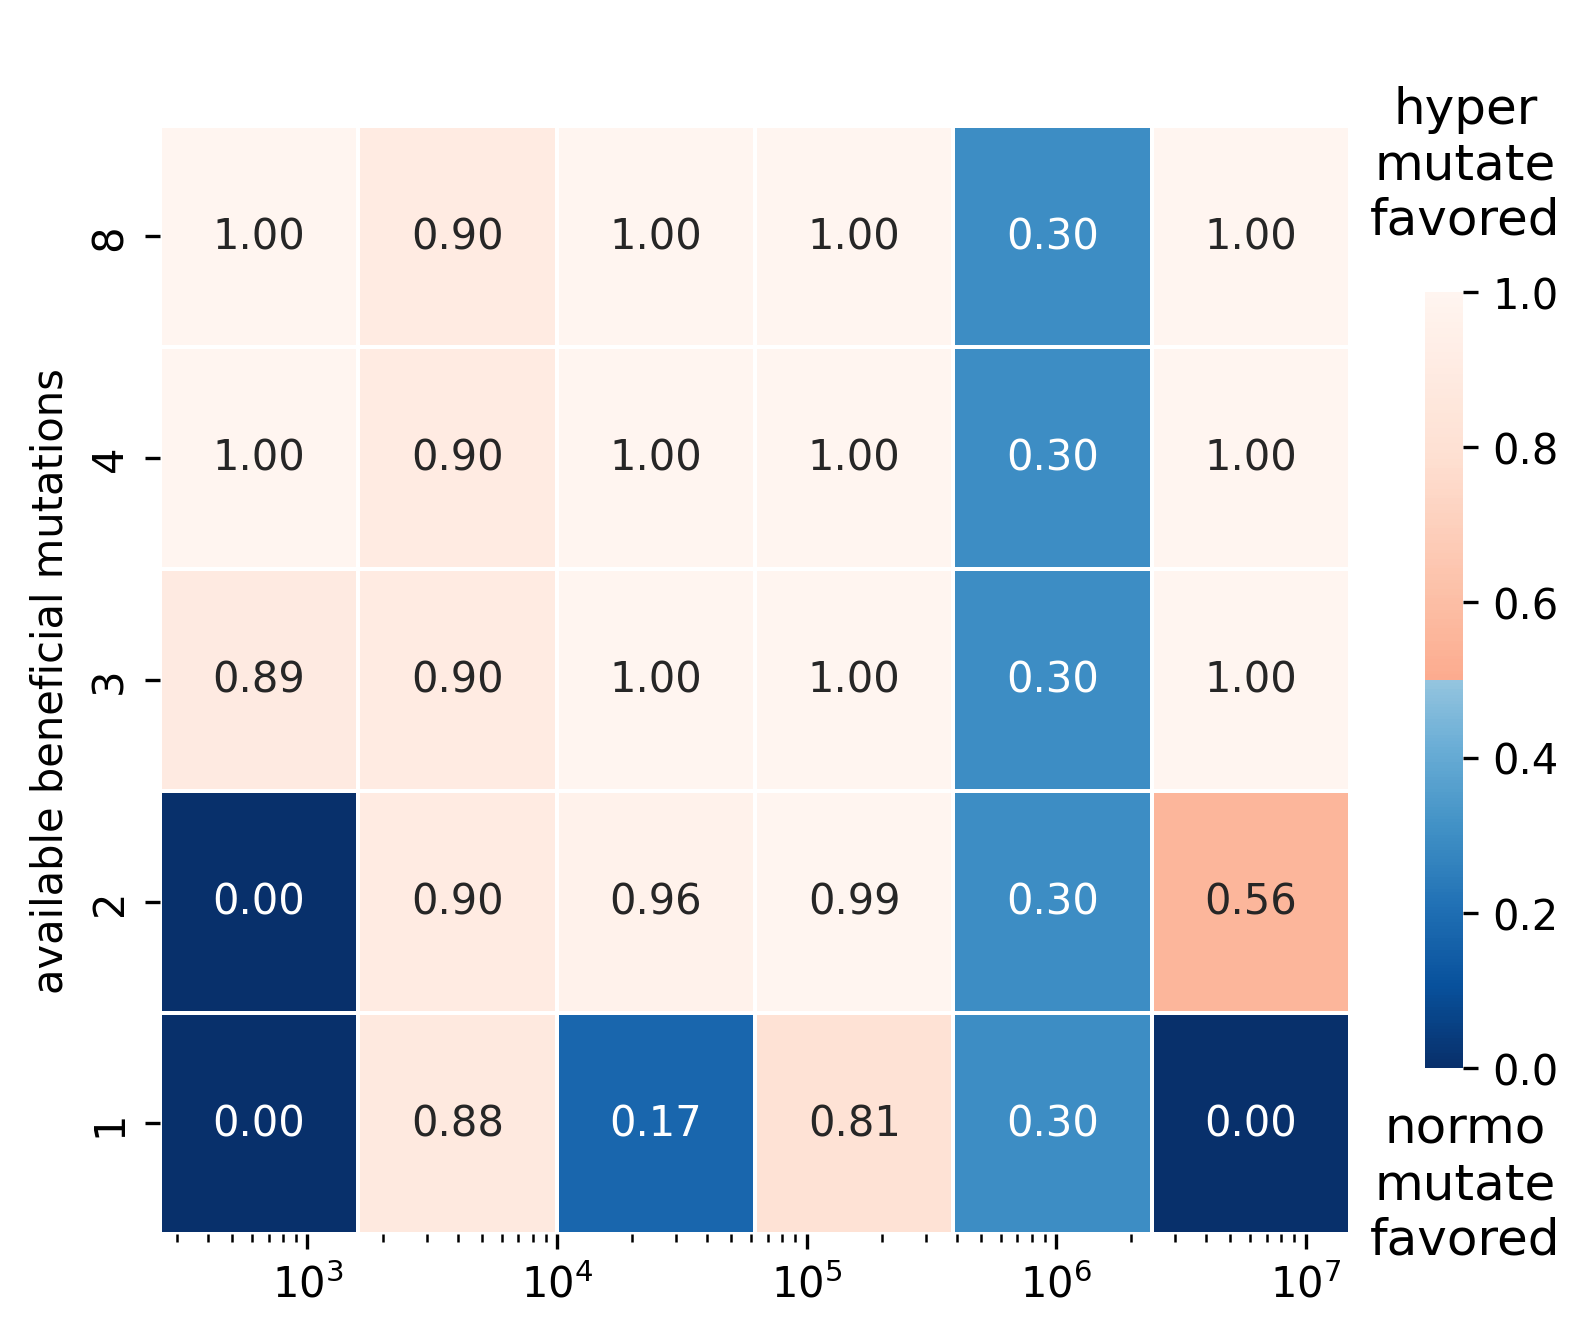
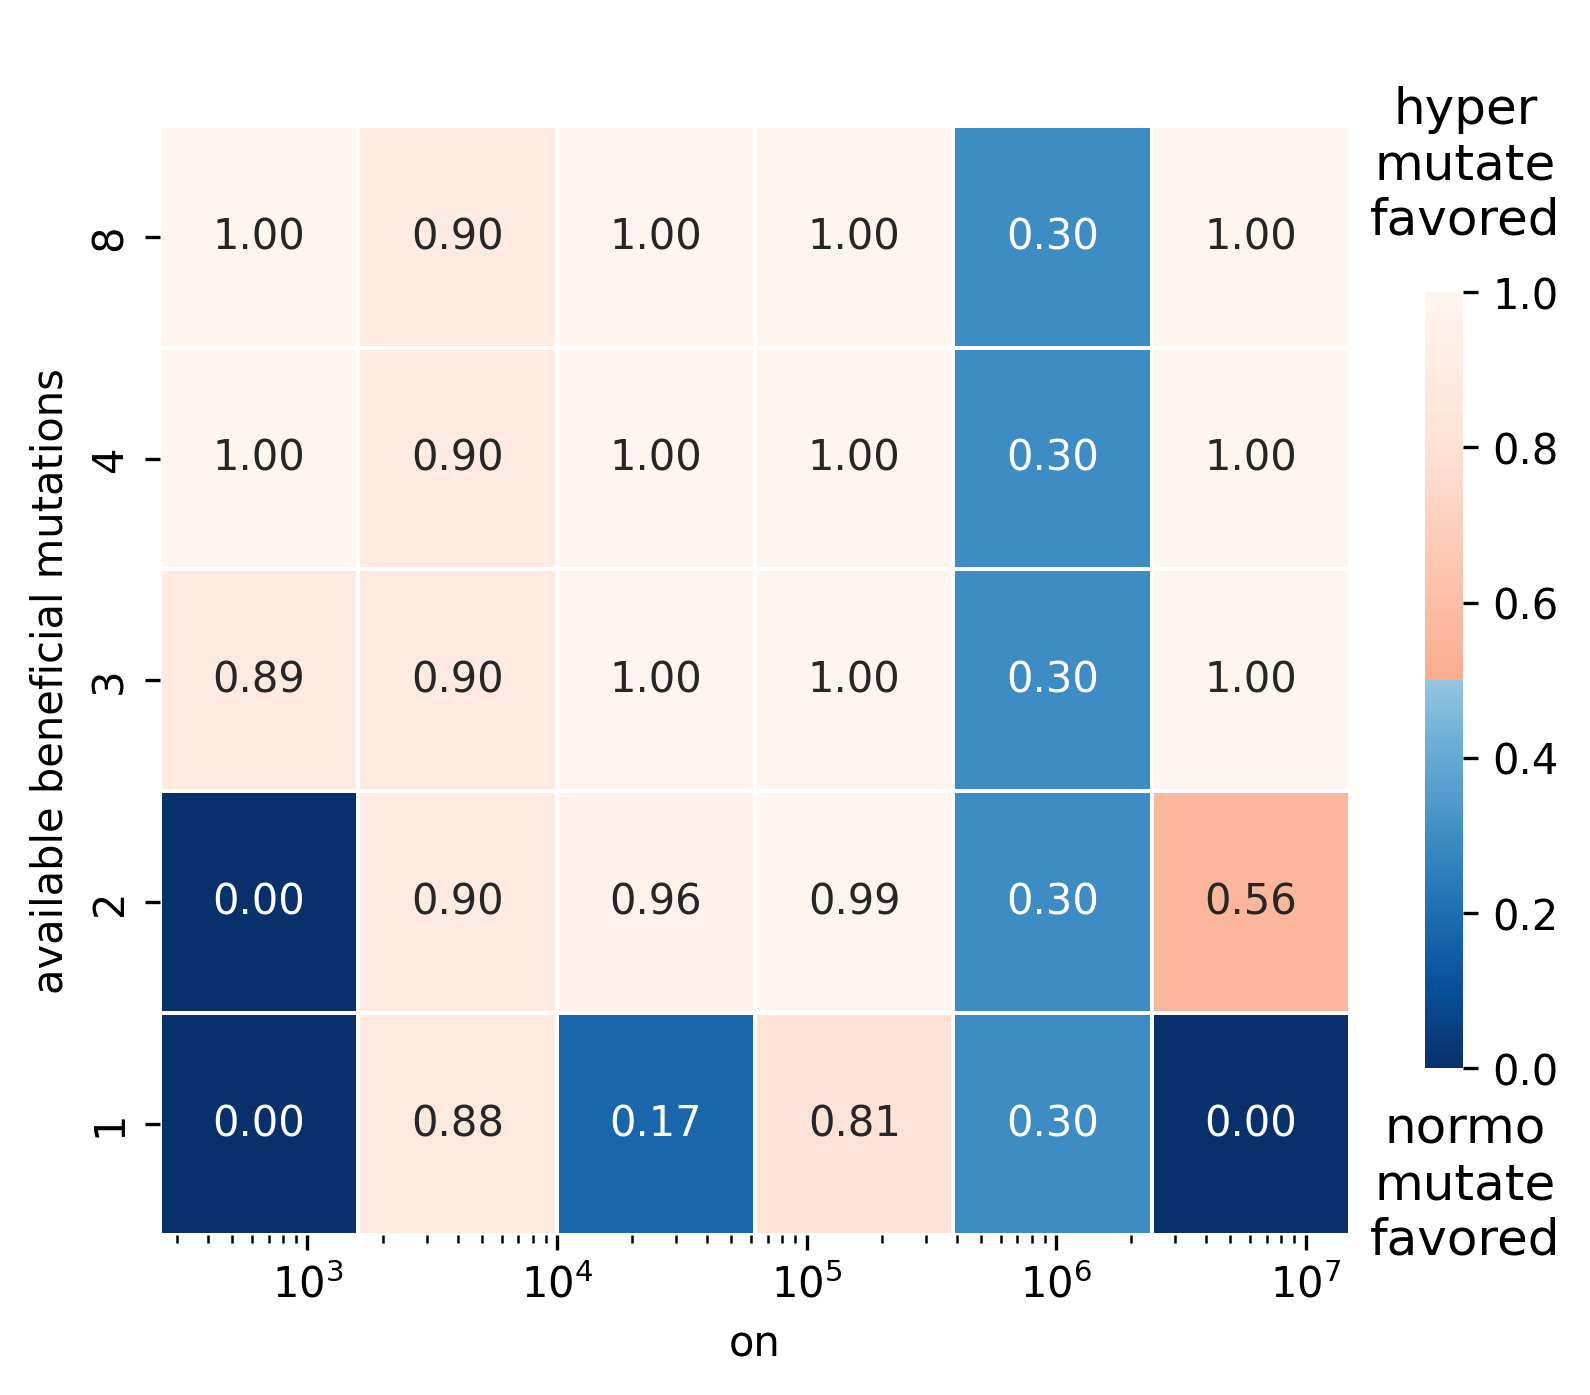
Deploying to binder-cupy-5050-spatial2d-traits.ipynb from @ mmore500/hypermutator-dynamics@b73872997af63f4b5b336afcddbb634210702455 🚀

diff --git a/pylib/viz/_size_fixation_heatmap.py b/pylib/viz/_size_fixation_heatmap.py
@@ -122,6 +122,7 @@ def size_fixation_heatmap(
 
     # Set the x-axis of the dummy axis to logarithmic scale
     new_ax.set_xscale("log")
+    new_ax.set_xlabel("on")
 
     # Assume hmdf.columns are your x-axis values
     xvals = hmdf.columns.astype(float)
